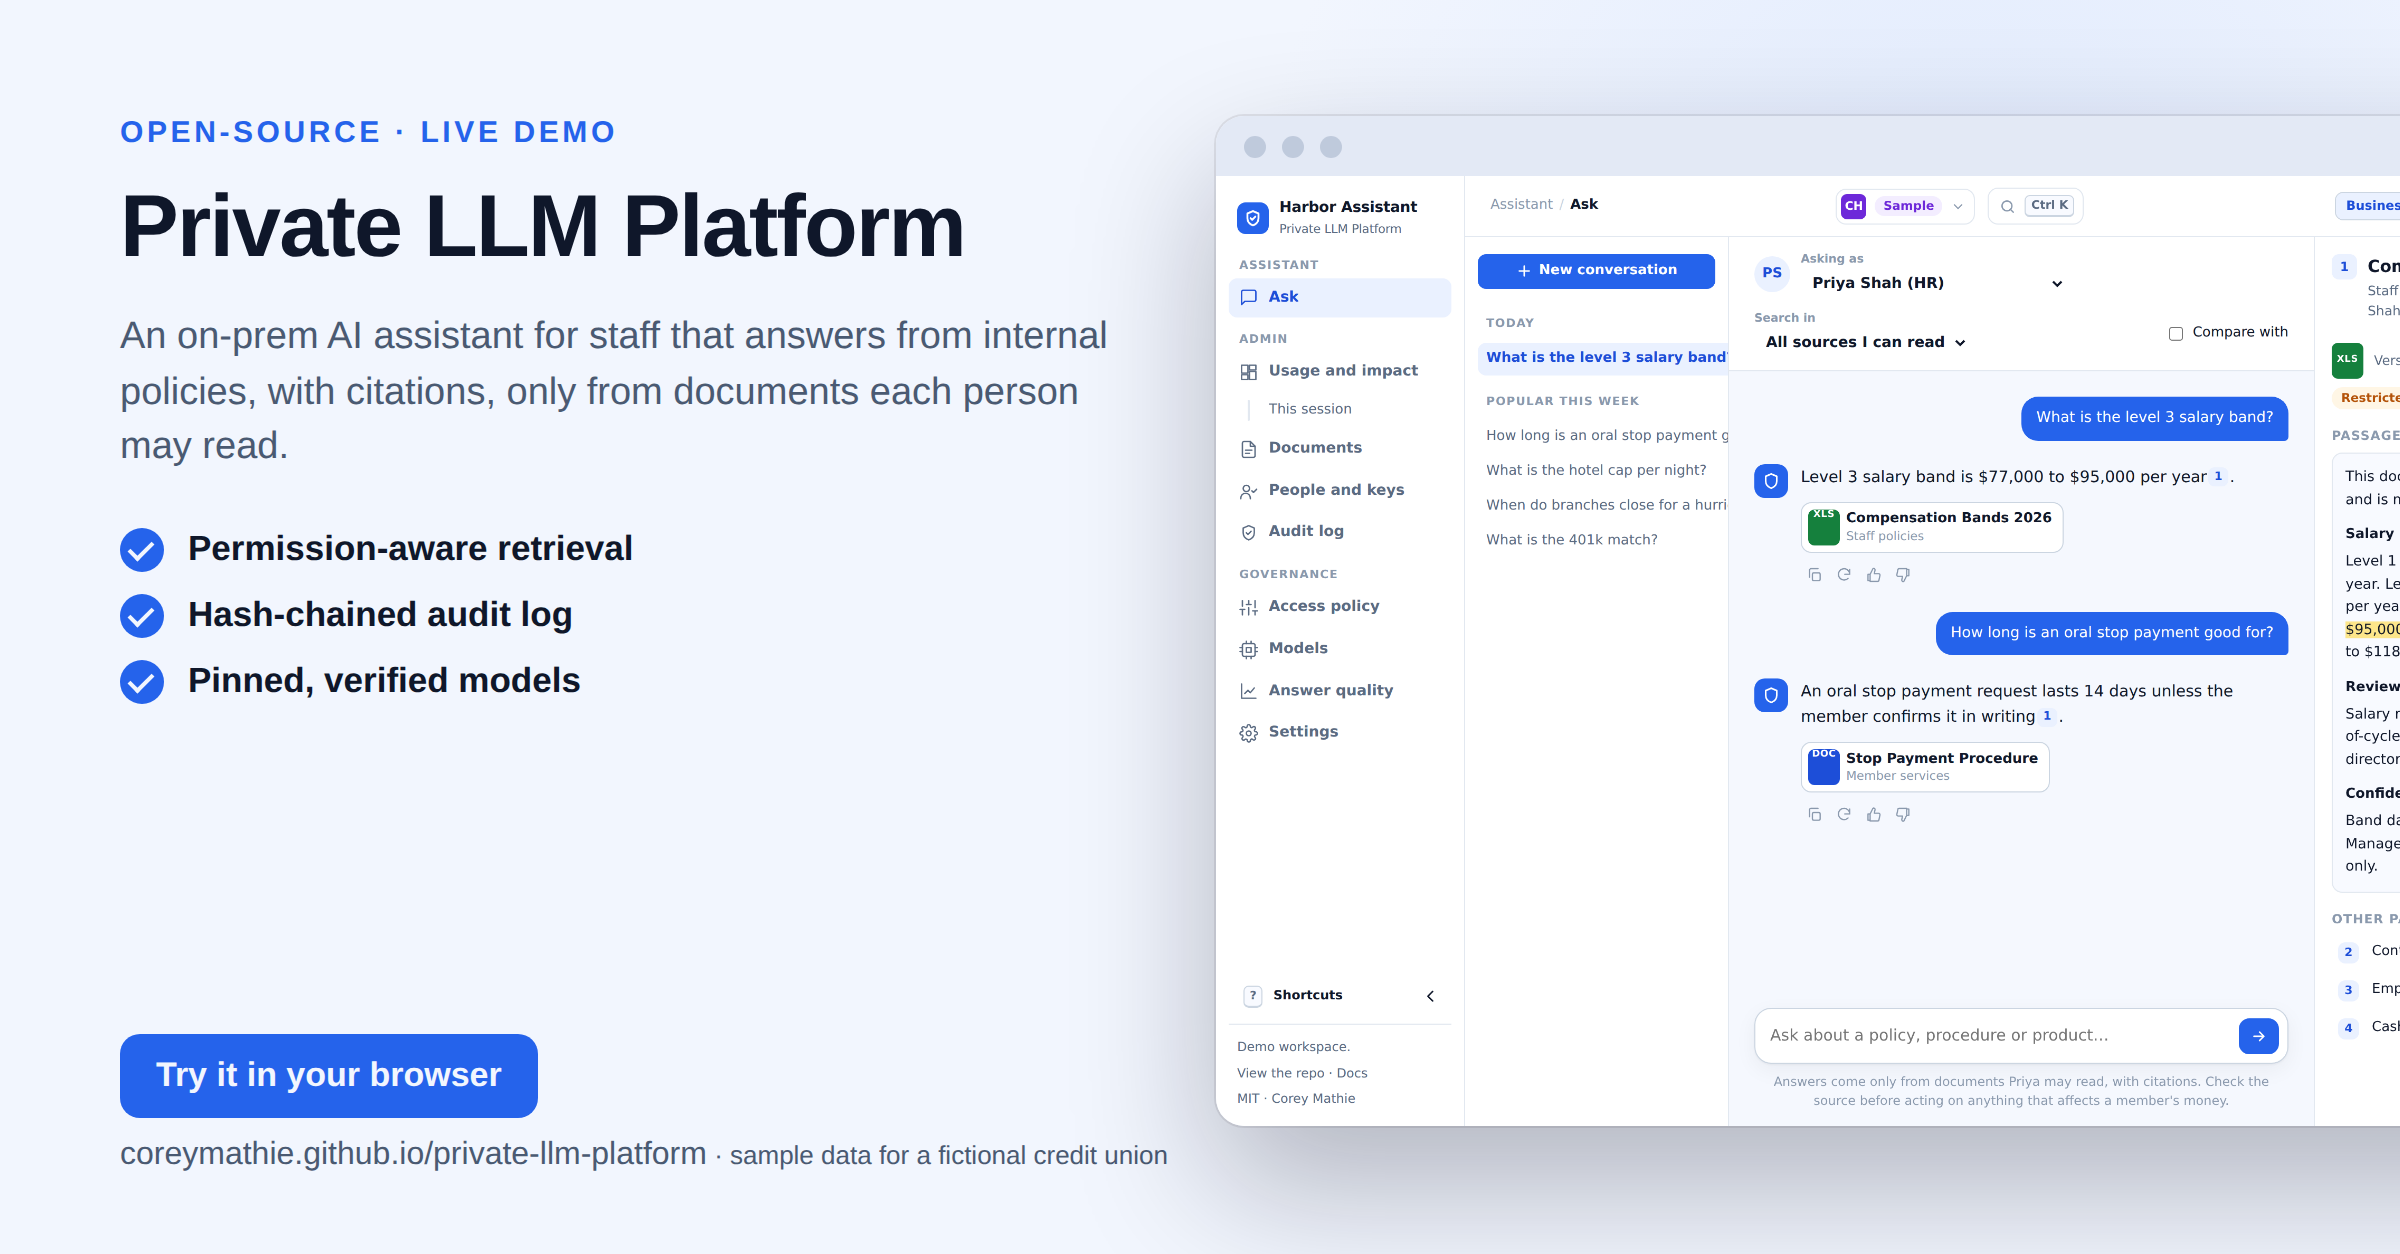
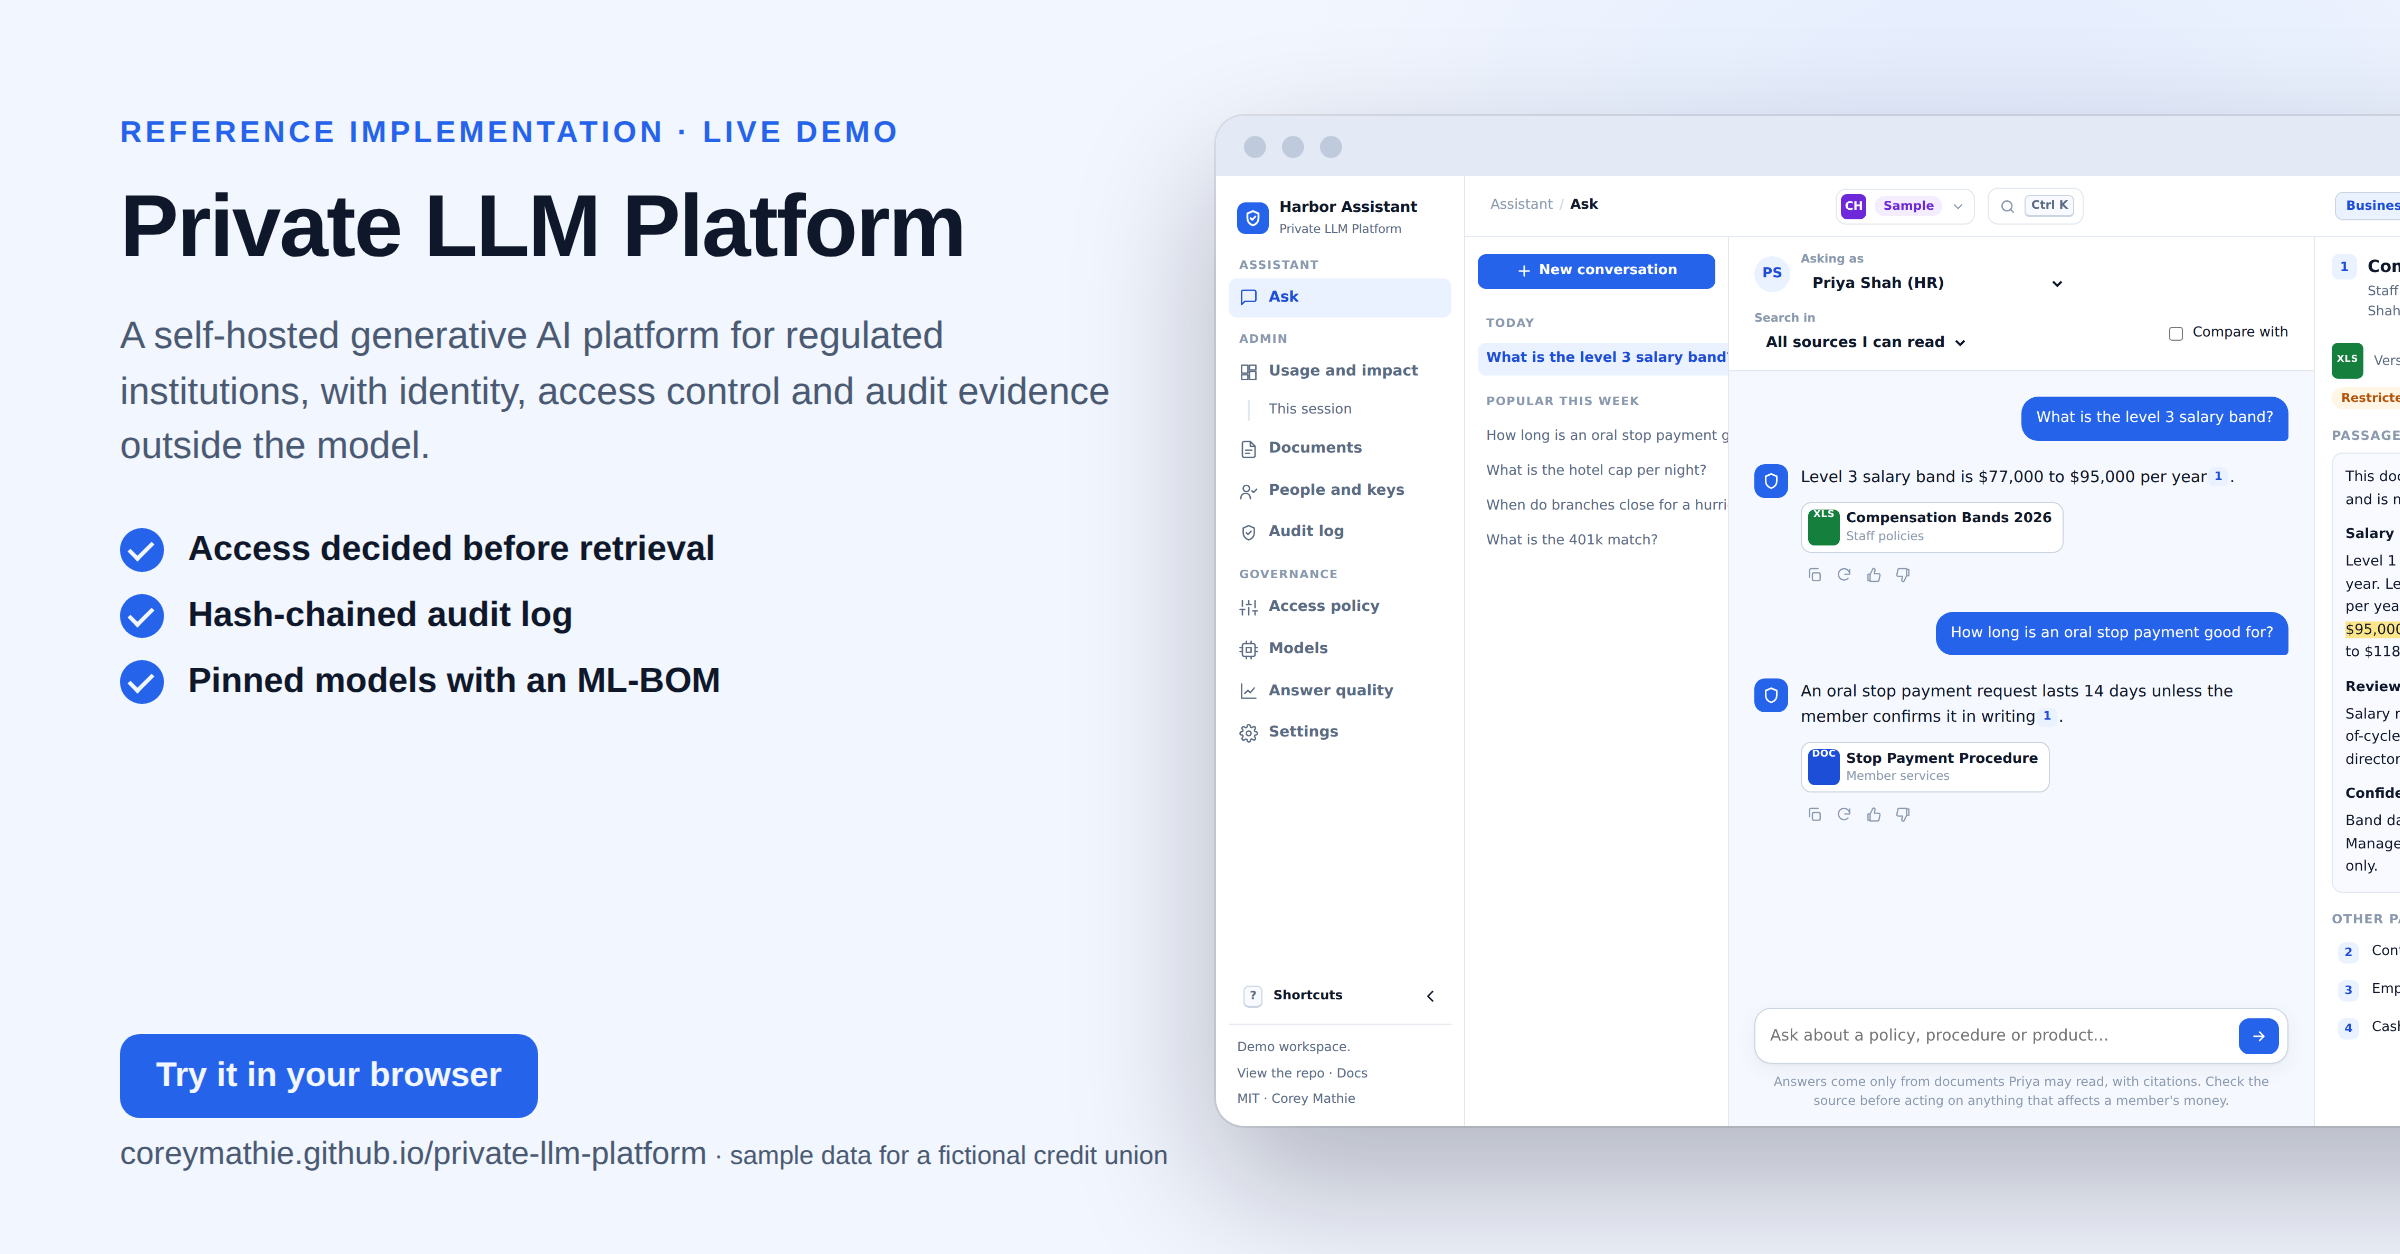
README at-a-glance summary; link-preview card and text aligned with the reference-architecture positioning
The executive summary becomes an at-a-glance table (problem, architecture, key decisions, controls,
evidence, out of scope, live demo), carried over from the superseded readme-architecture branch.
The LinkedIn link-preview card and its Open Graph title and description now use the same positioning.

diff --git a/demo/index.html b/demo/index.html
@@ -8,8 +8,8 @@
 <!-- Link previews (LinkedIn, Slack, X): demo/social-card.png -->
 <meta property="og:type" content="website" />
 <meta property="og:site_name" content="Corey Mathie · open-source projects" />
-<meta property="og:title" content="Private LLM Platform: a private AI assistant with citations and access control" />
-<meta property="og:description" content="An on-prem AI assistant for staff that answers from internal policies, with citations, only from documents each person may read. Live demo runs in your browser." />
+<meta property="og:title" content="Private LLM Platform: a self-hosted generative AI platform for regulated institutions" />
+<meta property="og:description" content="Reference implementation: identity, access decided before retrieval, a hash-chained audit log and pinned models, outside the model and in front of a private inference server. Live demo runs in the browser." />
 <meta property="og:url" content="https://coreymathie.github.io/private-llm-platform/demo/" />
 <meta property="og:image" content="https://coreymathie.github.io/private-llm-platform/demo/social-card.png" />
 <meta property="og:image:width" content="2400" />

diff --git a/README.md b/README.md
@@ -8,24 +8,17 @@
 OpenAI-compatible gateway that places identity, permission-aware retrieval, audit evidence and model governance
 outside the model, in front of a private inference server.**
 
-## Executive summary
+## At a glance
 
-- **Problem.** Credit unions, banks and other regulated institutions want staff-facing assistants over their
-  own policies and procedures, but cannot send prompts or documents to a public API, and a bare model server has
-  no identity, no access control, no limits and no record an auditor can trust.
-- **Approach.** One FastAPI gateway (SQLite, a JSONL audit log) exposes the OpenAI API in front of a
-  self-hosted model: **Ollama** on a laptop or small server, or **vLLM / SGLang / TGI / NVIDIA NIM** on a GPU
-  host. It answers document questions with citations over hybrid retrieval and deploys on a single host, with
-  Docker Compose, or on Kubernetes with Helm, including air-gapped installs.
-- **Controls.** Per-application API keys and **OIDC single sign-on with group-based roles**; access decided
-  before retrieval; a **tamper-evident, hash-chained audit log**; envelope encryption at rest; model pinning
-  with a CycloneDX ML-BOM; prompt-injection defense in depth; PII redaction; rate limits; Prometheus metrics
-  and OpenTelemetry GenAI spans.
-- **Evidence.** 230 automated tests; a RAG eval gate in CI with zero ACL leaks across four retrieval
-  configurations; **measured** gateway overhead (p50 9.2 ms through the gateway versus 3.5 ms direct at
-  concurrency 1); a 41-check browser smoke test of the console.
-- **Out of scope.** SCIM provisioning, ACL sync from source systems, a KMS key provider, model signature
-  verification and multi-replica operation are roadmap items. No model-serving benchmarks are published.
+| | |
+|---|---|
+| **Problem** | Regulated teams can't send prompts or documents to a public API, and a bare model server has no identity, limits, access control or audit trail. |
+| **Architecture** | One FastAPI gateway (OpenAI-compatible API) in front of Ollama or any OpenAI-compatible server (vLLM, SGLang, TGI, NVIDIA NIM). SQLite for keys, documents and vectors; a hash-chained JSONL audit log. |
+| **Key decisions** | Pluggable inference backend; on-host embeddings with hybrid BM25 + vector retrieval; OIDC tokens alongside API keys; envelope encryption; pinned model digests. Each recorded as an ADR with its trade-off. |
+| **Controls** | API keys and OIDC SSO with group roles; collection and document access lists applied before scoring; rate limits; PII redaction; SHA-256 audit chain; model lock file with an off/warn/enforce policy and a CycloneDX ML-BOM. |
+| **Evidence** | 230 automated tests; a RAG eval gate in CI with 0 ACL leaks; hybrid citation accuracy 0.837 → 0.884 on the golden set; a 41-check headless browser smoke test across both console modes; 8 ADRs. |
+| **Out of scope** | SCIM provisioning, ACL sync from source systems, a KMS key provider, model signature verification and multi-replica operation are roadmap items. No model-serving benchmarks are published. |
+| **Try it** | [Live console](https://coreymathie.github.io/private-llm-platform/demo/): the gateway's real Python modules in your browser through Pyodide. Locally, `docker compose up` needs no model or GPU. |
 
 ## Live demo
 
